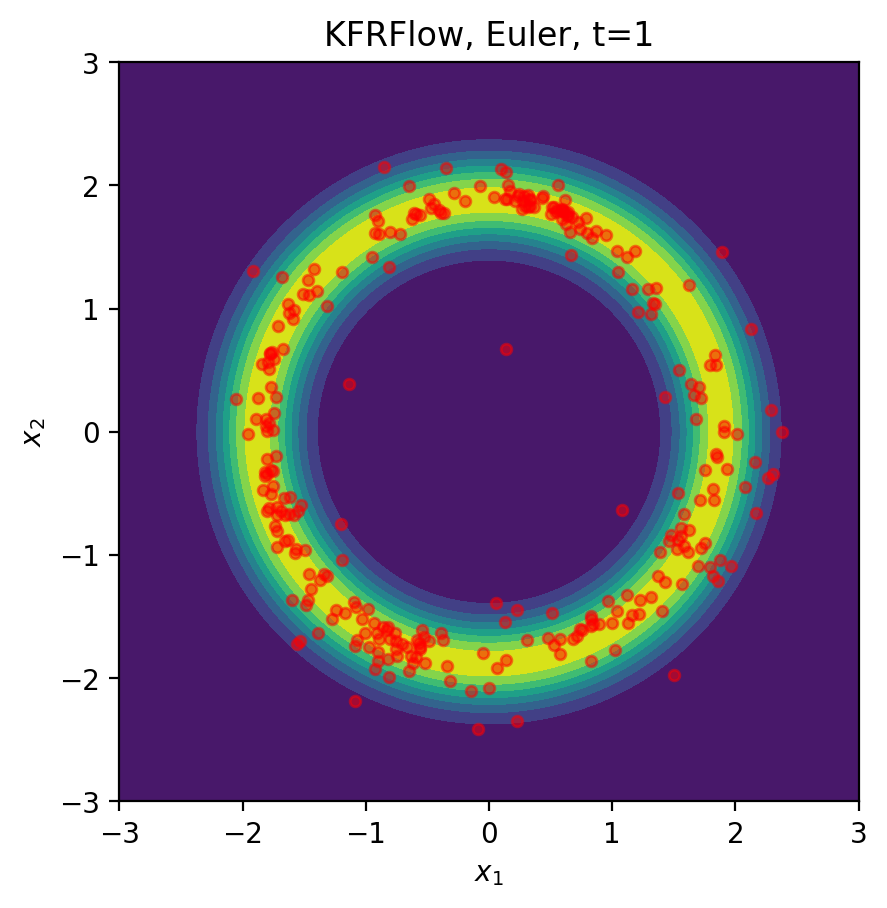
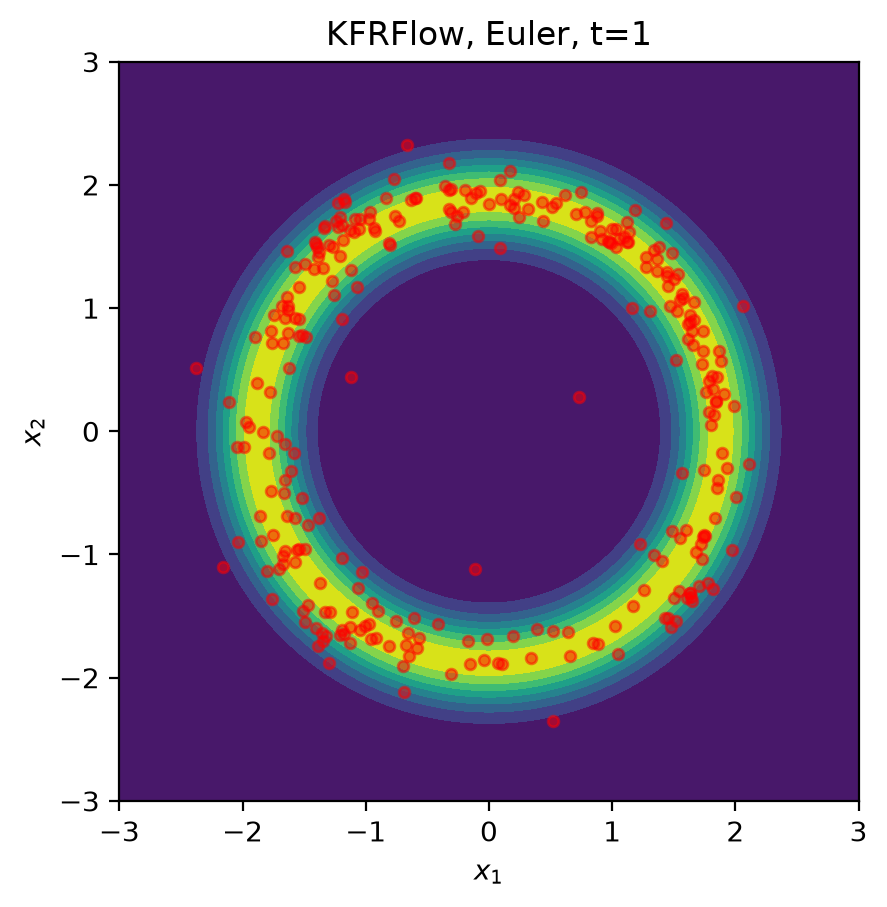
fix: correct norm syntax in KFRFlow experiment

diff --git a/experiments/KFRFlow.py/KFRFlow.py b/experiments/KFRFlow.py/KFRFlow.py
@@ -3,11 +3,11 @@ import numpy as np
 from pathlib import Path
 
 # define the log density ratio (ldr)
-ldr = lambda x: -8 * (np.norm(x) - 2)**2
+ldr = lambda x: -8 * (np.linalg.norm(x) - 2)**2
 
 # define the kernel and the kernel gradient
-kernel = lambda x, y: (1 + np.sqrt(3) / 45 * np.norm(x - y)) * np.exp(- np.sqrt(3) / 45 * np.norm(x - y))
-nabla_kernel = lambda x, y: -3 / 45**2 * np.exp(-np.sqrt(3) / 45 * np.norm(x - y)) * (x - y) 
+kernel = lambda x, y: (1 + np.sqrt(3) / 45 * np.linalg.norm(x - y)) * np.exp(- np.sqrt(3) / 45 * np.linalg.norm(x - y))
+nabla_kernel = lambda x, y: -3 / 45**2 * np.exp(-np.sqrt(3) / 45 * np.linalg.norm(x - y)) * (x - y) 
 # we can't use these equations; left as references
 
 
